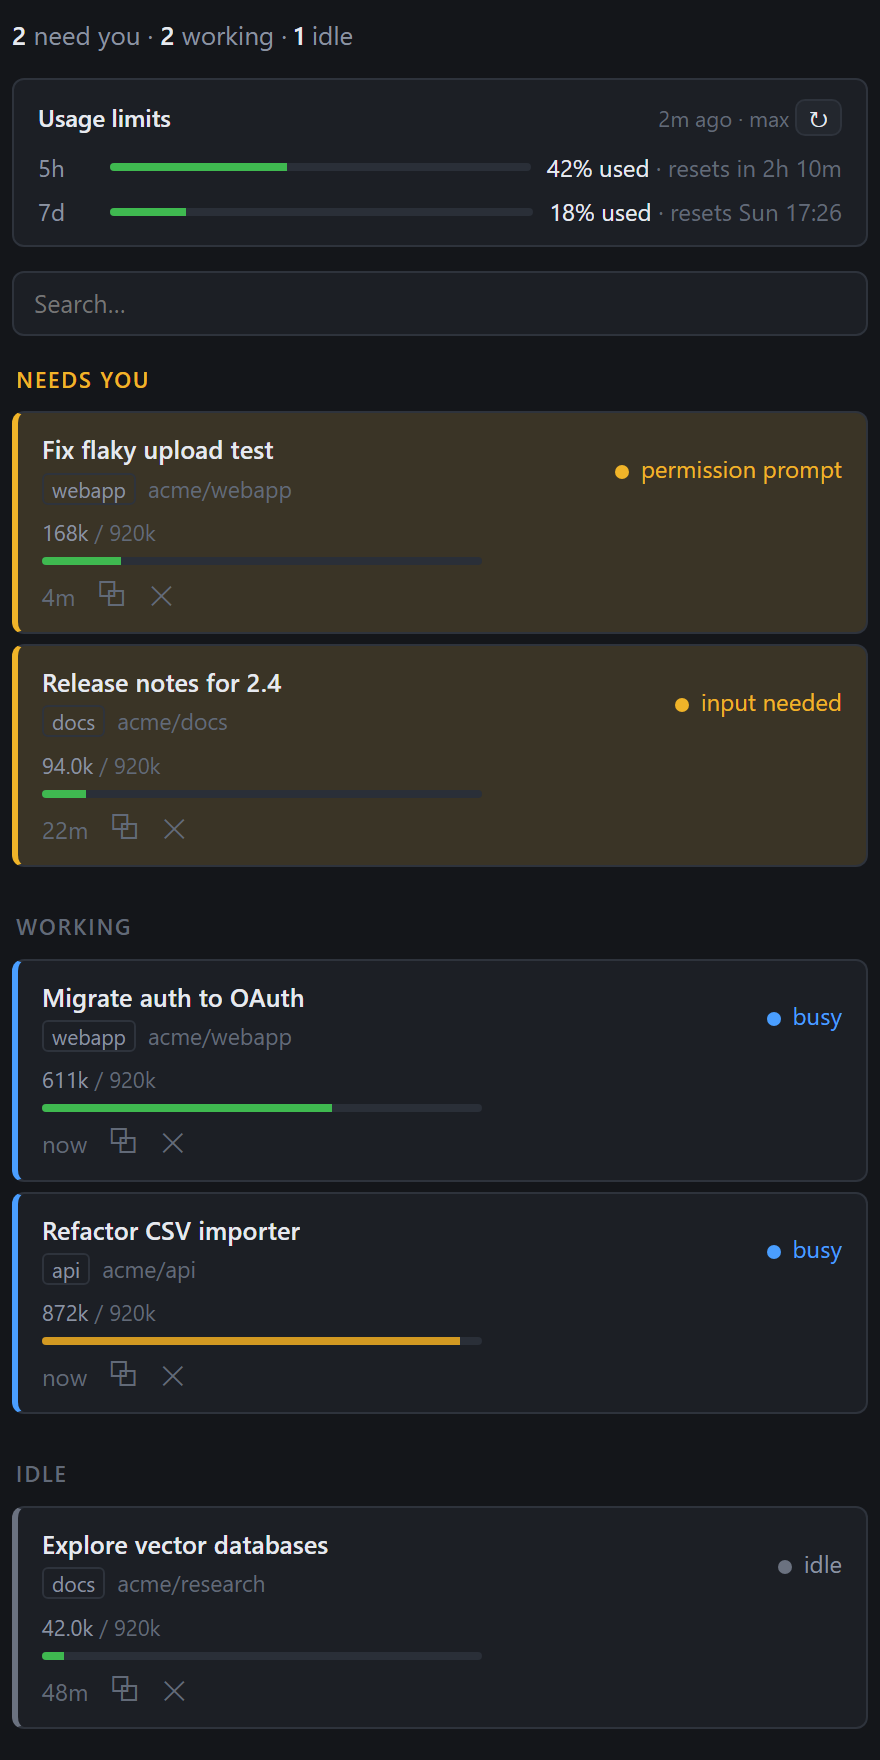
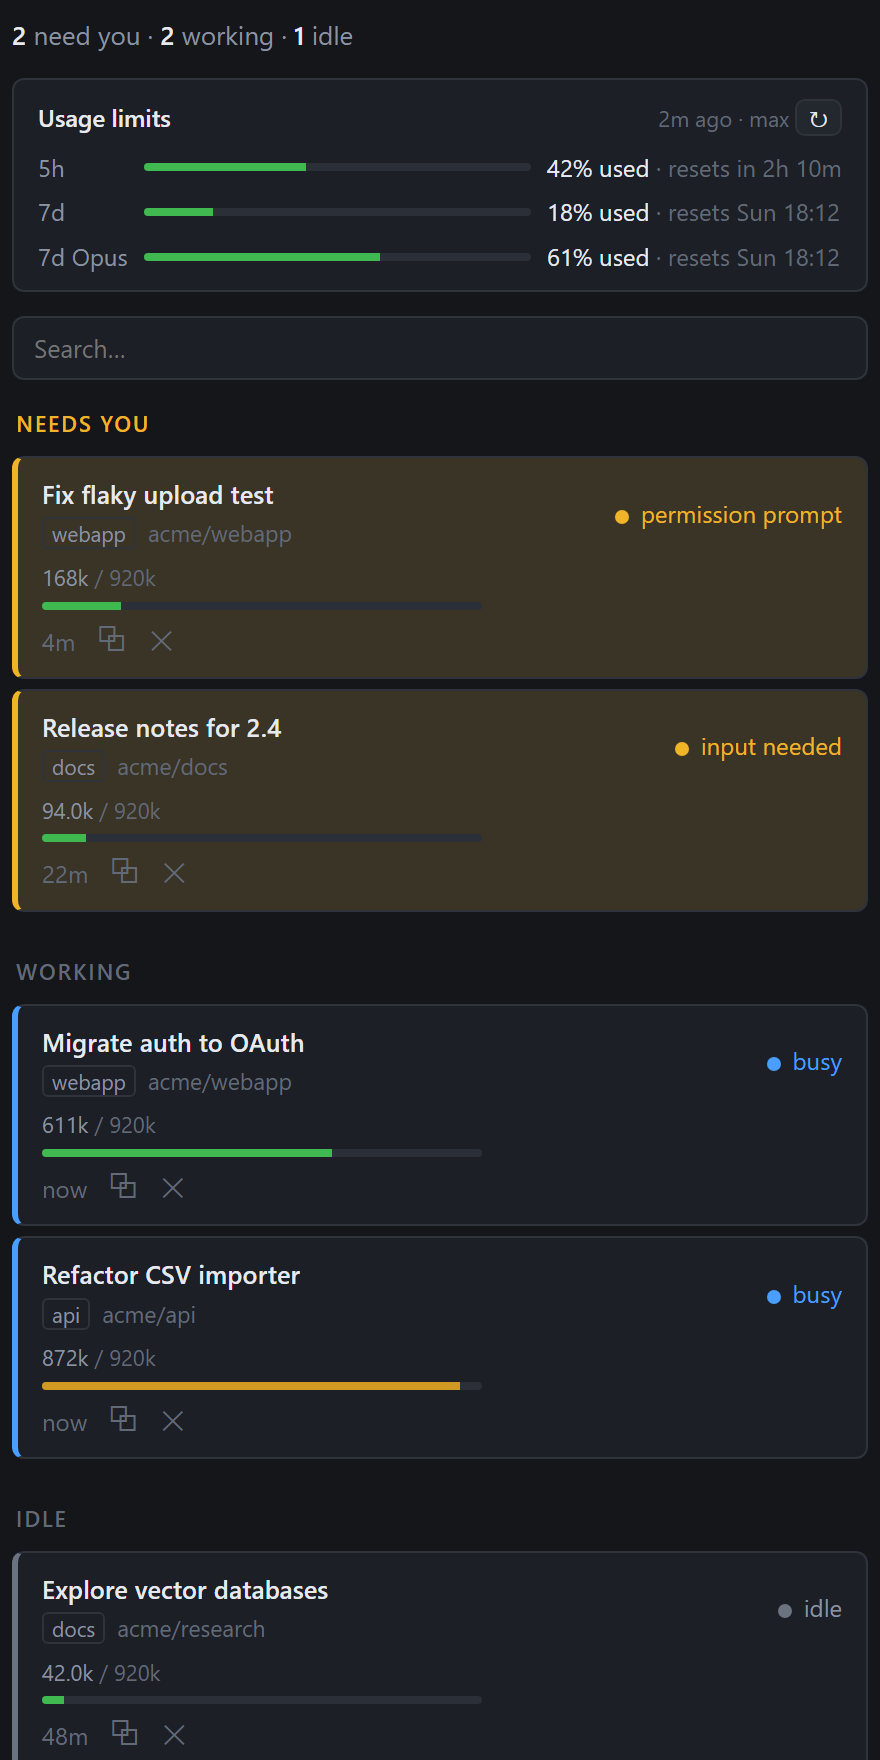
Session Board 0.4.1: per-model usage windows, publisher id nghorbani
The usage strip read four named windows from the CLI reply; the per-model
weekly window (for example Fable) is not among them. It sits in the reply's
`limits` list, which is what Claude Code's own usage panel renders, so the
parser reads that list first (session, weekly_all, weekly_scoped with the
model's display name) and falls back to the named objects of the older
shape. Windows carry their label; the strip renders them in reply order in
one grid so the bars line up. Tests cover both shapes and the fallback.

Publisher id is now nghorbani (extension id nghorbani.session-board); the
license holder follows.

diff --git a/extension/index.html b/extension/index.html
@@ -63,9 +63,10 @@
   .usage .u-head { display: flex; align-items: center; gap: 8px; flex-wrap: wrap; min-height: 22px; }
   .usage .u-head b { color: var(--text); font-weight: 600; }
   .usage .u-note { color: var(--faint); font-size: 11px; margin-left: auto; white-space: nowrap; }
-  .usage .u-win { display: grid; grid-template-columns: auto 1fr auto; gap: 8px; align-items: center; margin-top: 5px; }
-  .usage .u-win .lbl { min-width: 28px; white-space: nowrap; }
-  .usage .u-win .lbl { color: var(--dim); font-variant-numeric: tabular-nums; }
+  /* one grid for all rows so the bars line up whatever the label widths */
+  .usage .u-rows { display: grid; grid-template-columns: auto 1fr auto; column-gap: 8px; row-gap: 5px; align-items: center; margin-top: 5px; }
+  .usage .u-win { display: contents; }
+  .usage .u-win .lbl { min-width: 28px; white-space: nowrap; color: var(--dim); font-variant-numeric: tabular-nums; }
   .usage .u-win .bar { margin-top: 0; }
   .usage .u-win .val { color: var(--text); font-variant-numeric: tabular-nums; white-space: nowrap; }
   .usage .u-win .val .rs { color: var(--faint); }
@@ -272,6 +273,7 @@ function fmtAgo(sec) {
   return Math.floor(h / 24) + 'd ago';
 }
 
+// Labels for records written before windows carried their own label.
 var USAGE_LABELS = { five_hour: '5h', seven_day: '7d', seven_day_opus: '7d Opus', seven_day_sonnet: '7d Sonnet' };
 
 function usageRow(label, pct, val, lvl) {
@@ -294,20 +296,22 @@ function renderUsage(u) {
   } else {
     var note = esc(fmtAgo(u.ageSeconds)) + (u.subscriptionType ? ' · ' + esc(u.subscriptionType) : '');
     html = head + '<span class="u-note" title="' + esc(u.at ? new Date(u.at).toLocaleString() : '') + '">' + note + ' ' + refreshBtn + '</span></div>';
-    Object.keys(USAGE_LABELS).forEach(function (k) {
-      var w = u.windows && u.windows[k];
+    var rows = '';
+    Object.keys(u.windows || {}).forEach(function (k) {   // in the order the CLI listed them
+      var w = u.windows[k];
       if (!w) return;
       var expired = Boolean(w.expired || (w.resetsAt && w.resetsAt <= Date.now()));
       var pct = expired || w.usedPct == null ? 0 : Math.max(0, Math.min(100, w.usedPct));
       var lvl = pct >= 90 ? 'crit' : pct >= 70 ? 'warn' : '';
       var val = expired ? 'window reset' : (w.usedPct == null ? '—' : Math.round(w.usedPct) + '% used');
       if (w.resetsAt && !expired) val += ' <span class="rs">· ' + esc(fmtReset(w.resetsAt)) + '</span>';
-      html += usageRow(USAGE_LABELS[k], pct, val, lvl);
+      rows += usageRow(w.label || USAGE_LABELS[k] || k, pct, val, lvl);
     });
     if (u.extraUsage && u.extraUsage.usedPct != null) {
       var xp = Math.max(0, Math.min(100, u.extraUsage.usedPct));
-      html += usageRow('extra', xp, Math.round(u.extraUsage.usedPct) + '% of extra usage', xp >= 90 ? 'crit' : xp >= 70 ? 'warn' : '');
+      rows += usageRow('extra', xp, Math.round(u.extraUsage.usedPct) + '% of extra usage', xp >= 90 ? 'crit' : xp >= 70 ? 'warn' : '');
     }
+    if (rows) html += '<div class="u-rows">' + rows + '</div>';
     if (u.error) html += '<div class="u-stale">last refresh failed: ' + esc(u.error) + '</div>';
     else if (u.cacheError) html += '<div class="u-stale">numbers not cached: ' + esc(u.cacheError) + '</div>';
   }

diff --git a/DEVELOPMENT.md b/DEVELOPMENT.md
@@ -88,11 +88,15 @@ installed version and shows every session anyway.
   files, not inline JSON, because the spawn goes through `cmd.exe` and Node does not quote
   arguments in shell mode) and writes one line on stdin:
   `{"type":"control_request","request_id":"…","request":{"subtype":"get_usage","skip_behaviors":true}}`.
-  The CLI answers with a `control_response` carrying `rate_limits` (five_hour, seven_day,
-  per-model windows, extra_usage; `utilization` 0–100 and `resets_at`) and exits; no model
-  call, no hooks, no MCP servers, no transcript. This is the request the VS Code extension
-  itself sends for its usage panel; the CLI's schema marks it experimental, so
-  `parseUsageResponse()` is tolerant and reports a shape change explicitly. The result is
+  The CLI answers with a `control_response` carrying `rate_limits` and exits; no model
+  call, no hooks, no MCP servers, no transcript. `rate_limits.limits` is the list Claude
+  Code's own usage panel renders (`kind` session / weekly_all / weekly_scoped with
+  `scope.model.display_name`, `percent`, `resets_at`); the board reads that list first and
+  falls back to the named objects (`five_hour`, `seven_day`, `seven_day_opus`, …) of the
+  older shape. Everything else in `rate_limits` (experimental windows at 0%, `spend`,
+  `seven_day_breakdown`) is ignored. This is the request the VS Code extension itself sends
+  for its usage panel; the CLI's schema marks it experimental, so `parseUsageResponse()` is
+  tolerant and reports a shape change explicitly. The result is
   cached in `usage-cli.json` (a failed probe keeps the last good windows and carries the
   error); `refreshUsageIfStale()` runs from the extension's poll (5 min visible, 15 hidden)
   and from the browser server's sessions route; probes are throttled to one per 15 s and a
@@ -115,7 +119,7 @@ token embedded in the page (`X-Board-Token`) and a matching Host/Origin; JSON re
 1. Create a publisher at <https://marketplace.visualstudio.com/manage> with the
    authentication the current publishing documentation prescribes (global Personal Access
    Tokens are announced to retire on 2026-12-01).
-2. If the publisher id differs from `nima-ghorbani`, change `publisher` in
+2. If the publisher id differs from `nghorbani`, change `publisher` in
    `extension/package.json`; the extension id used for URIs and heartbeats follows it.
 3. From `extension/`: `npx @vscode/vsce@4.0.0 login <publisher>` then
    `npx @vscode/vsce@4.0.0 publish`, or upload the `.vsix` on the manage page. The

diff --git a/extension/CHANGELOG.md b/extension/CHANGELOG.md
@@ -1,5 +1,10 @@
 # Changelog
 
+## 0.4.1
+
+- Per-model weekly windows (for example "7d Fable") now show up; the strip reads the same limits list as Claude Code's own usage screen
+- New publisher id: the extension is now `nghorbani.session-board`. If you installed an earlier build from source, uninstall the old Session Board entry in the Extensions view
+
 ## 0.4.0
 
 - Usage limits now come straight from the Claude Code CLI, refreshed every 5 minutes and on ↻; no status line setup any more. If you pasted the `statusLine` entry for 0.3.1, remove it from `~/.claude/settings.json`
